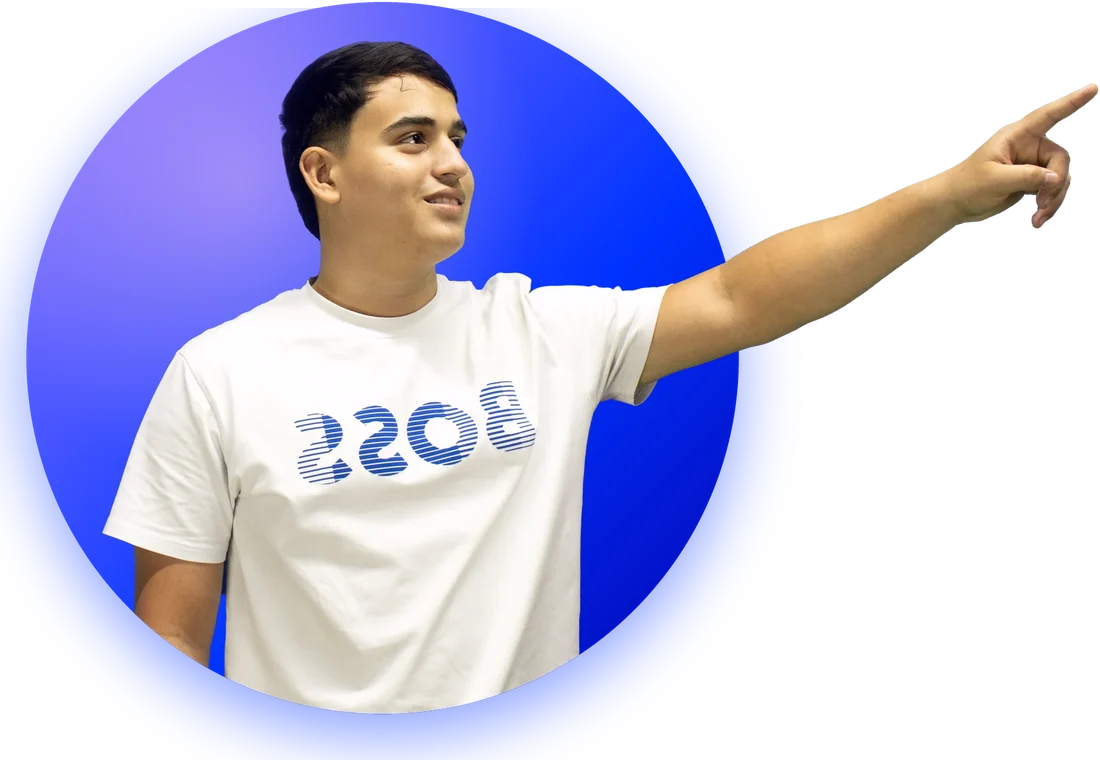
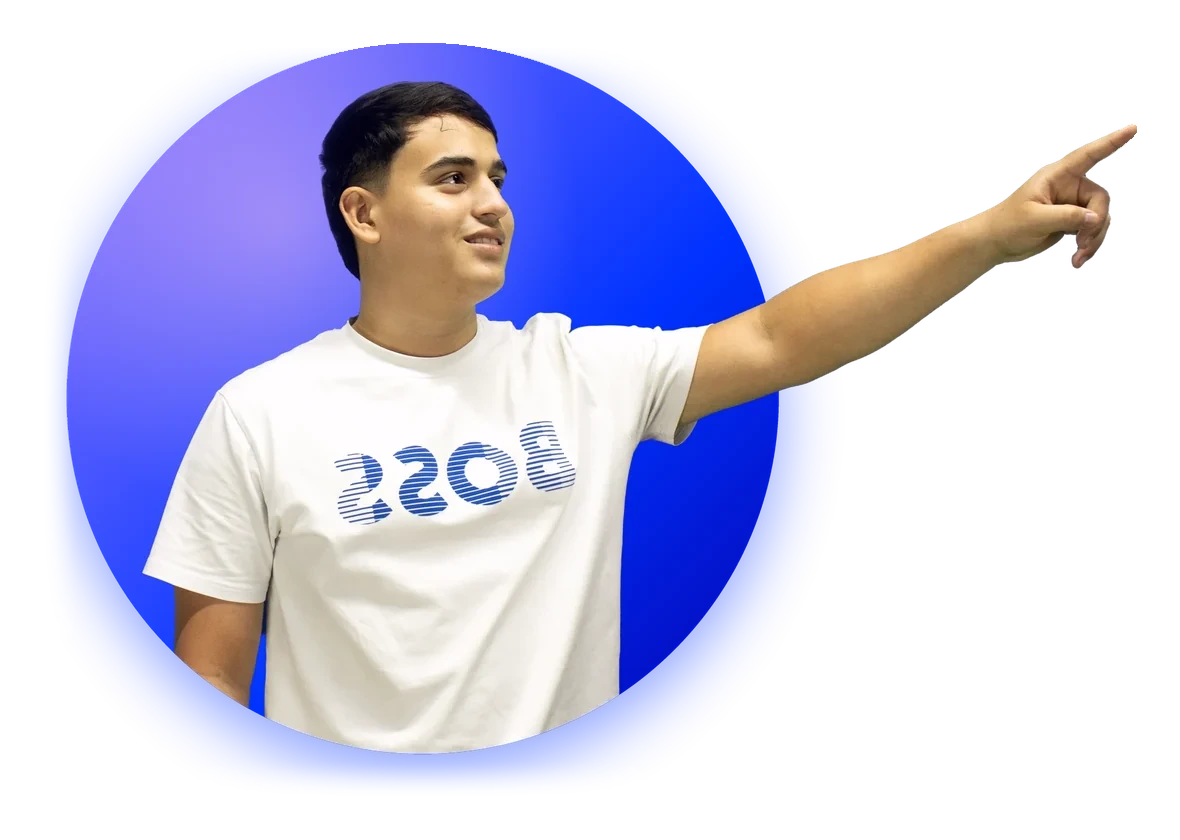
Portada: margen transparente y desvanecido del halo azul para que no se corte (claro y oscuro)

diff --git a/css/styles.css b/css/styles.css
@@ -575,12 +575,12 @@ a.free-card:hover { transform: translateY(-4px); box-shadow: var(--glow-fuerte);
 @media (max-width: 440px) { .header .header__cta { display: none; } }
 
 /* ---------- Fotos reales (nov 2026) ---------- */
-.hero__person:has(img) { max-width: 580px; }
+.hero__person:has(img) { max-width: 622px; }
 /* El fondo (círculo o recuadro) viene dentro de la foto */
 .cutout--baked:has(img)::before { display: none; }
 .cutout--baked img { filter: none; -webkit-mask-image: none; mask-image: none; }
 .profe__photo:has(img) { border: none; padding-top: 28px; background: radial-gradient(70% 60% at 30% 20%, rgba(255,204,242,.45), transparent 60%), linear-gradient(160deg, #977DFF 0%, #0033FF 60%, #0600AB 100%); }
-@media (max-width: 900px) { .hero__person:has(img) { max-width: 380px; } }
+@media (max-width: 900px) { .hero__person:has(img) { max-width: 408px; } }
 
 /* ---------- Ajustes móviles (revisión) ----------
    Revisión responsive nov 2026 (360 · 390 · 414 · 768 · 1024 px).
@@ -651,7 +651,7 @@ a.project { text-decoration: none; }
   .hero__copy { display: contents; }
   .hero__copy .tag { order: 1; }
   .hero__copy .hero__title { order: 2; margin-bottom: 4px; }
-  .hero__person, .hero__person:has(img) { order: 3; align-self: flex-start; width: 84%; max-width: 320px; margin: 0 0 6px; }
+  .hero__person, .hero__person:has(img) { order: 3; align-self: flex-start; width: 84%; max-width: 343px; margin: 0 0 6px; }
   .hero__copy .hero__lead { order: 4; }
   .hero__copy .hero__cta { order: 5; margin-top: 10px; flex-direction: column; align-items: stretch; width: min(100%, 320px); }
   .cutout--baked::after { display: none; } /* el halo borroso dejaba un rectángulo claro alrededor de la foto */

diff --git a/index.html b/index.html
@@ -79,7 +79,7 @@
     <div class="wrap hero__inner">
       <div class="hero__split">
         <figure class="cutout cutout--circle cutout--baked hero__person" id="heroPerson">
-          <img src="assets/img/portada-senalando.webp" alt="Estudiante señalando el título de la página" width="1100" height="760" fetchpriority="high">
+          <img src="assets/img/portada-senalando.webp" alt="Estudiante señalando el título de la página" width="1180" height="840" fetchpriority="high">
         </figure>
 
         <div class="hero__copy">
